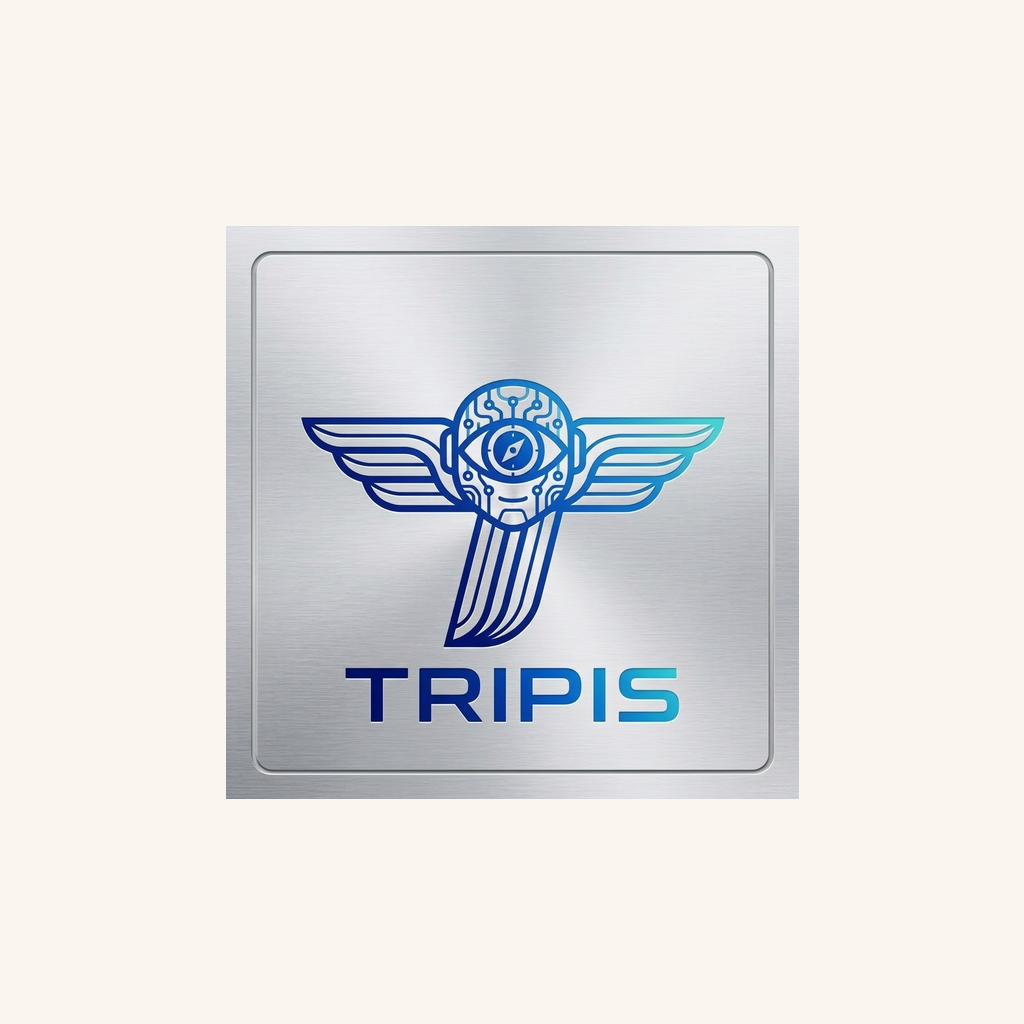
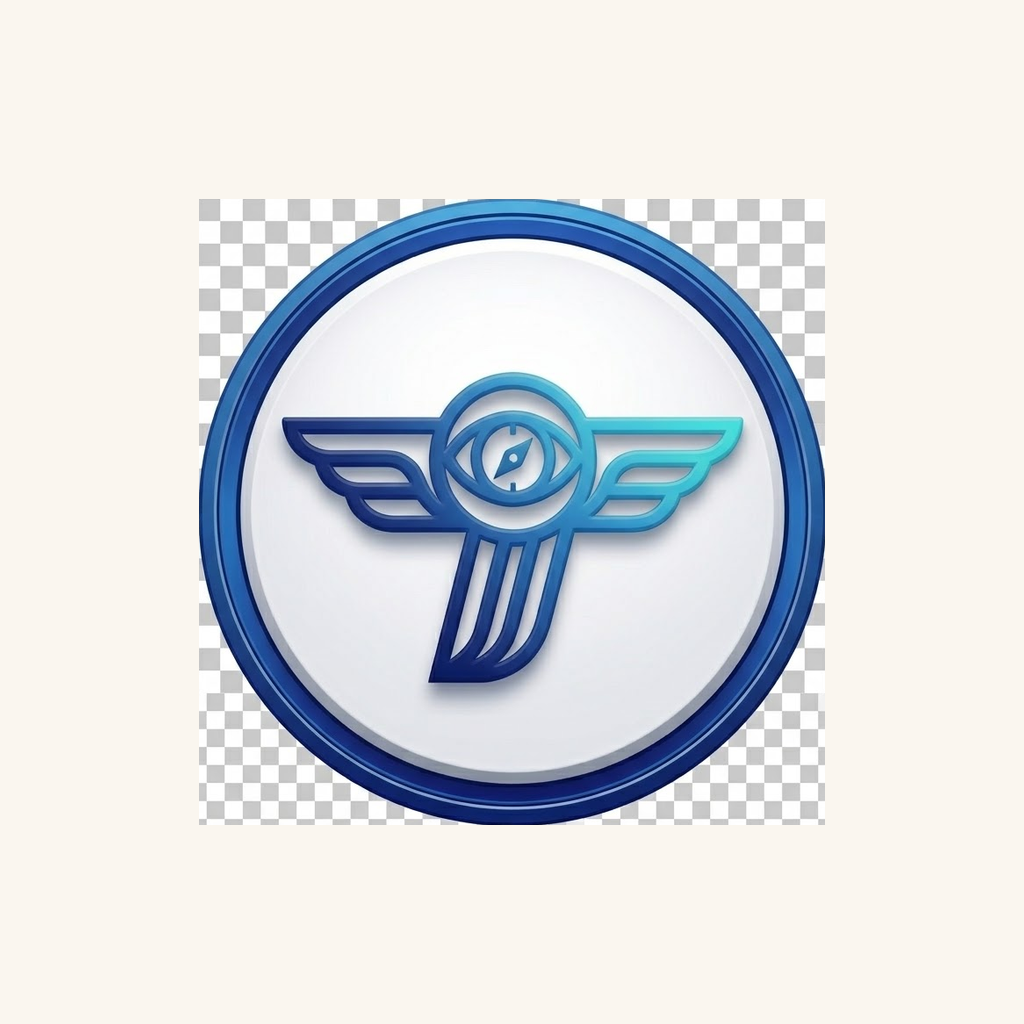
fix(release): AOS 스플래시 원인수정 + 새 앱아이콘 + 슬롯 간격 6px
- expo-splash-screen 플러그인을 ios/android 서브설정으로 분리(Expo 공식 패턴).
  Android는 SDK52+ 원형아이콘 전용 체계에 맞춰 신규 에셋(tripis-splash-android-icon.png,
  텍스트 없는 브랜드 원형뱃지) 신설. iOS는 기존 tripis-splash.png 그대로 유지
  (imageWidth:280 명시 — 판단3종이 잡은 폴백100 회귀 방지).
- 새 앱아이콘(사장님 제공 원형뱃지 소스)을 애플 HIG(~92% 채움)·구글플레이(~92%)·
  구글 adaptive icon 공식 세이프존(66/108=61.1%) 수치 그대로 재작업, 기존 파일명 교체.
- 여정 결과화면 슬롯 썸네일~텍스트 간격 marginRight 4→6(실기기 재지적, Chrome DevTools 실측).

§22 기계검증+실증+판단3종(3라운드) 전부 통과.

Changed region(s): [[0.1875, 0.1875, 0.8125, 0.8125]]

diff --git a/client/screens/trip-planner/styles/result.ts b/client/screens/trip-planner/styles/result.ts
@@ -230,13 +230,13 @@ export const resultStyles = StyleSheet.create({
     alignItems: "flex-start",
   },
   // ⚠ 수정금지(승인필요) 2026-08-16 사장님 승인 = 56→48 축소(텍스트칸 폭 확보, 위 placeCard 근거 동일).
-  //   ⚠ 수정금지(승인필요) 2026-08-19 사장님 승인 = marginRight 2→4(너무 붙어보임 실기기 지적, 확정치).
+  //   ⚠ 수정금지(승인필요) 2026-08-19 사장님 승인 = marginRight 4→6(실측 4px 확인 후 사장님 재지시, 확정치).
   placeThumbnail: {
     width: 48,
     height: 48,
     borderRadius: BorderRadius.sm,
     overflow: "hidden",
-    marginRight: 4,
+    marginRight: 6,
   },
   placeThumbnailImage: {
     width: 48,

diff --git a/docs/2026-08-14 실사용자 관점 AAB·IPA 앱버전 최적화.md b/docs/2026-08-14 실사용자 관점 AAB·IPA 앱버전 최적화.md
@@ -33,14 +33,22 @@
   - 문제점: `LoginSheet.tsx:379-399` X버튼과 `ScrollView`(로그인폼)가 형제요소인데 X버튼에 `zIndex` 없어 `ScrollView`가 터치를 가로챔(로직버그 아님, z-order 문제). 싱글톤 컴포넌트(`App.tsx:108` 1곳)라 전 진입점(트립플래너·프로필·Tripis모달·전문가·하단탭) 공통 적용됨.
   - 해결책: `styles.ts:42-50` `loginCloseBtn`에 `zIndex: 10` 한 줄 추가.
   - 개선효과: 로그인 원치 않는 사용자의 X버튼 습관적 터치가 정상 작동.
-- [ ] **3. 슬롯 썸네일~텍스트 간격 부족 — 값 확정**
-  - 해결책: `result.ts:239` `placeThumbnail.marginRight: 2` → **4**(사장님 확정치).
-- [ ] **4. AOS 스플래시 깨짐(신규 발견, 원인 미조사)**
-  - 증상: **AOS만** 스플래시 이미지+텍스트가 아예 안 나타남(사장님 실기기 스샷). iOS는 최적. 비율 자체는 맞음.
-  - 다음 단계: 원인 조사 필요(imageWidth 280 vs 고정 288px 캔버스 근접치가 관련 있는지 등 재확인) — 위 1~3번과 함께 이번 배치에서 처리 후 1회 재빌드.
-- [ ] **5. 앱아이콘 실기기 가독성·효과 저하 — 교체 예정**
-  - 증상: Gemini 브러시드메탈 아이콘이 실기기 홈화면에서 효과·가독성 둘 다 떨어짐(사장님 실기기 확인).
-  - 다음 단계: 사장님이 새 아이콘 소스 주시면 교체(현재는 대기, 재조사 불필요 — 사장님 판단 확정 사안).
+- [x] **3. 슬롯 썸네일~텍스트 간격 부족 — 값 확정(2026-08-19, 6으로 재확정 완료)**
+  - 해결책: `result.ts:239` `placeThumbnail.marginRight` = 4로 1차 적용 후, Chrome DevTools 실측(gap 4px 확인) 거쳐 사장님이 **6**으로 재지시 → 재적용 완료(getBoundingClientRect 실측 gap=6px 확인).
+- [x] **4. AOS 스플래시 깨짐 — 원인 확정 + 코드 수정 완료(2026-08-19, 재빌드 전)**
+  - 증상: **AOS만** 스플래시 이미지+텍스트가 아예 안 나타남(사장님 실기기 스샷). iOS는 최적.
+  - 원인(WebSearch+context7 공식문서로 확정, 추측 아님): **Expo SDK52+부터 Android 네이티브 스플래시가 Android 12+ SplashScreen API 체계로 바뀌어 "작은 원형에 가까운 아이콘"만 지원** — 텍스트("Tripis") 포함 풀스크린 세로이미지 구조 자체가 이 체계와 안 맞음(imageWidth 수치 문제가 아니었음). iOS는 옛 방식 그대로 풀커스텀 이미지 지원이라 정상.
+  - 해결책: Expo 공식 예시(context7, expo/expo docs `splash-screen-and-app-icon.mdx`) 그대로 `app.json`의 `expo-splash-screen` 플러그인을 **ios/android 서브설정으로 분리**. iOS는 기존 `tripis-splash.png` 그대로 유지, Android는 신규 아이콘 전용 투명배경 에셋(`tripis-splash-android-icon.png`, 새 앱아이콘과 동일 브랜드 원형뱃지, imageWidth=150=공식 예시값) 신설.
+  - **판단3종 2라운드에서 회귀 발견→즉시 수정**: ios 서브설정에 `imageWidth`를 빠뜨려서 `node_modules/@expo/prebuild-config/.../withIosSplashAssets.js:72`의 기본값(`splash.imageWidth ?? 100`)으로 폴백 → 기존 280 대비 로고가 36% 크기로 작아지는 회귀였음(소스 직접 확인). `ios.imageWidth: 280` 추가로 원복.
+  - §22 기계검증(tsc·서버빌드·웹빌드·lint) 통과(지문 `86adad57`). **네이티브 스플래시 합성은 Chrome DevTools로 렌더 불가**(§21 한계와 동일 성격) = 실제 화면 확인은 다음 재빌드 후 실기기에서만 가능.
+- [x] **5. 앱아이콘 교체 — 사장님 신규 소스로 적용 완료(2026-08-19, 재빌드 전)**
+  - 증상: Gemini 브러시드메탈 아이콘이 실기기 홈화면에서 효과·가독성 둘 다 떨어짐(사장님 실기기 확인) → 사장님이 새 원형 뱃지 아이콘(날개+눈 심볼) 소스 제공.
+  - 해결책(사장님 지시 "느낌 아닌 리서치로" 반영, WebFetch로 애플·구글 공식문서 실측):
+    - iOS 1024·Play스토어 512·웹파비콘 = 애플 HIG(풀블리드 배경+콘텐츠 여백 ~5%) + 구글플레이(풀블리드, 코너라운드만 자동적용) 기준 = **92% 채움**(파란테두리가 가장자리까지 꽉 차 "버튼 하나" 룩, 임의 82% 폐기).
+    - Android 적응형 런처 foreground = **구글 공식 세이프존 66dp/108dp=61.1%를 정확히 적용**(developer.android.com 실측, 임의 56% 폐기). ⚠ 이 레이어만은 edge-to-edge 불가 — 런처마다 마스크 모양(원형·스퀴클 등)이 달라 61% 밖 콘텐츠는 기기별로 실제 잘림. "안 잘림" 요건과 "테두리까지 꽉참" 요건이 이 레이어에서만 상충하는 게 공식 스펙상 구조적 이유(SDK52+ 스플래시 아이콘 제약과 같은 종류의 플랫폼 제약).
+    - 소스 JPG는 진짜 알파 없음(체커보드=가짜 투명, 저장 시 baked) → sharp 채도기반 경계탐지로 파란링 실경계(1024 중 715×713) 확인 후 처리.
+  - 적용 파일(기존 파일명 그대로 교체 = §19, app.json 경로 변경 불필요): `tripis-app-icon.png`(iOS), `tripis-adaptive-foreground.png`(Android), `tripis-favicon.png`(웹). Play스토어 리스팅용 512(`r-store-512.png`)는 스크래치패드에 별도 보관(Play 콘솔 수동 업로드용, 코드에 배선 안 됨).
+  - §22 기계검증 통과(지문 `86adad57`, 4번과 동시 반영). 실기기 최종 확인 = 다음 재빌드 후.
 
 ---
 
